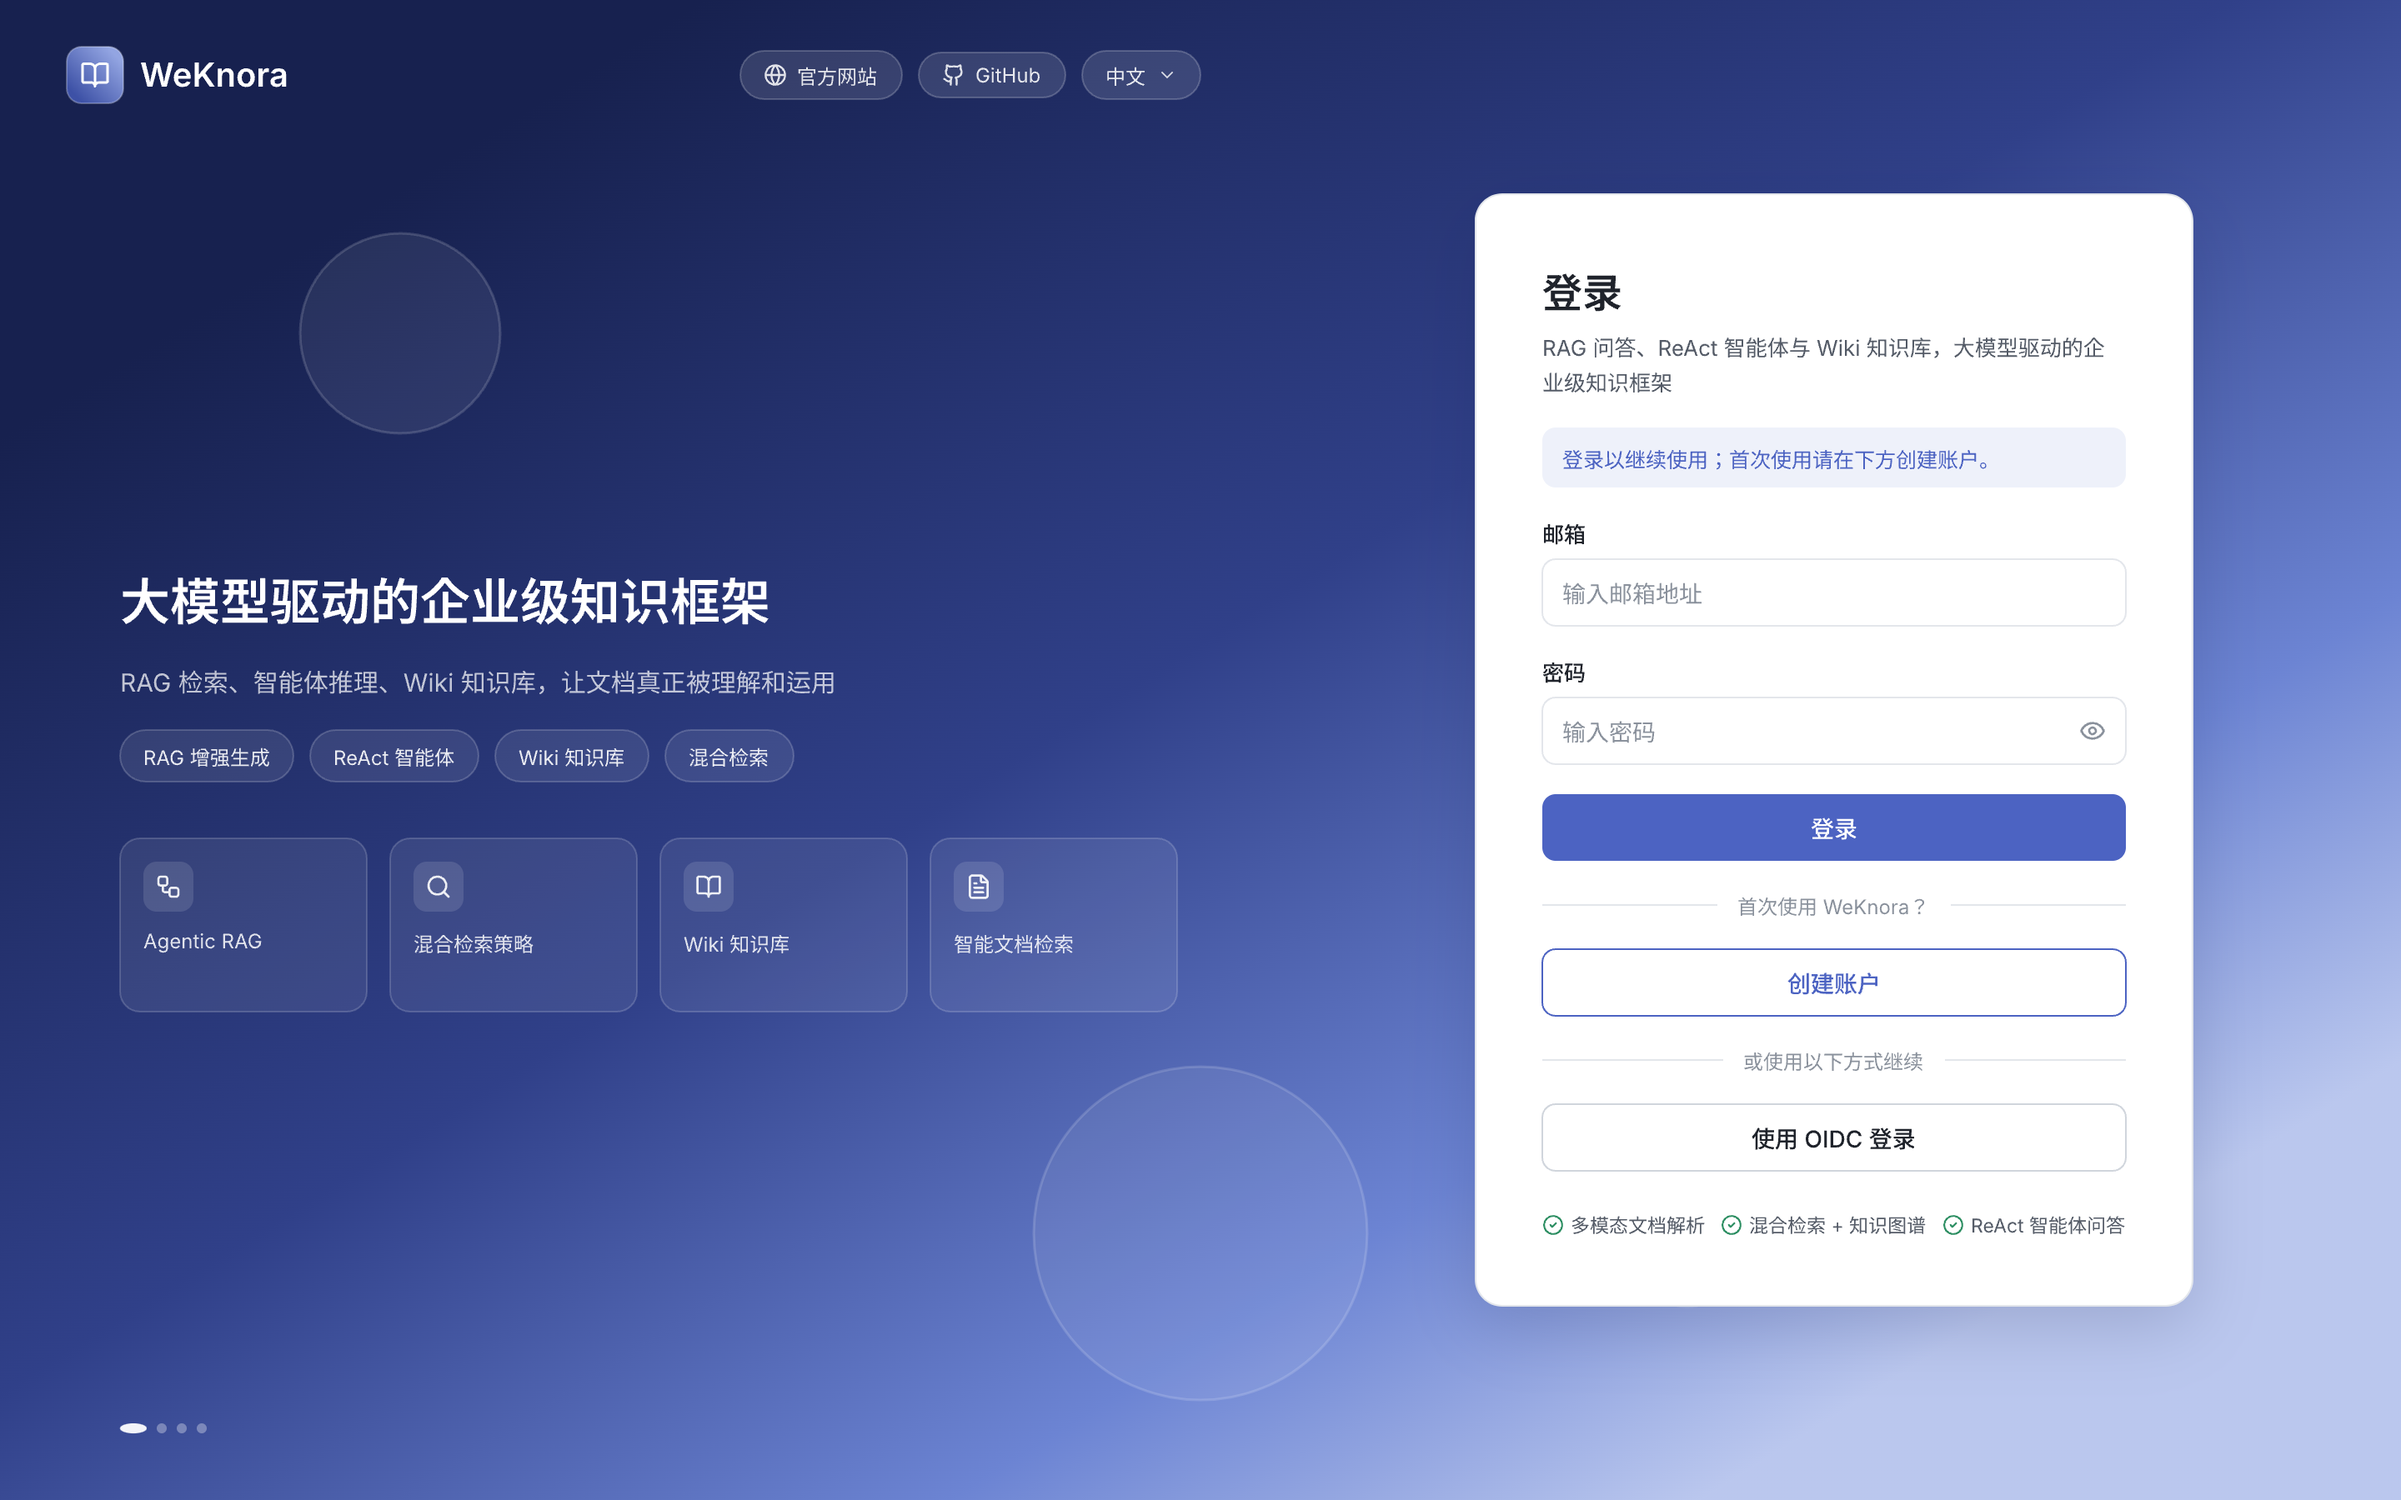
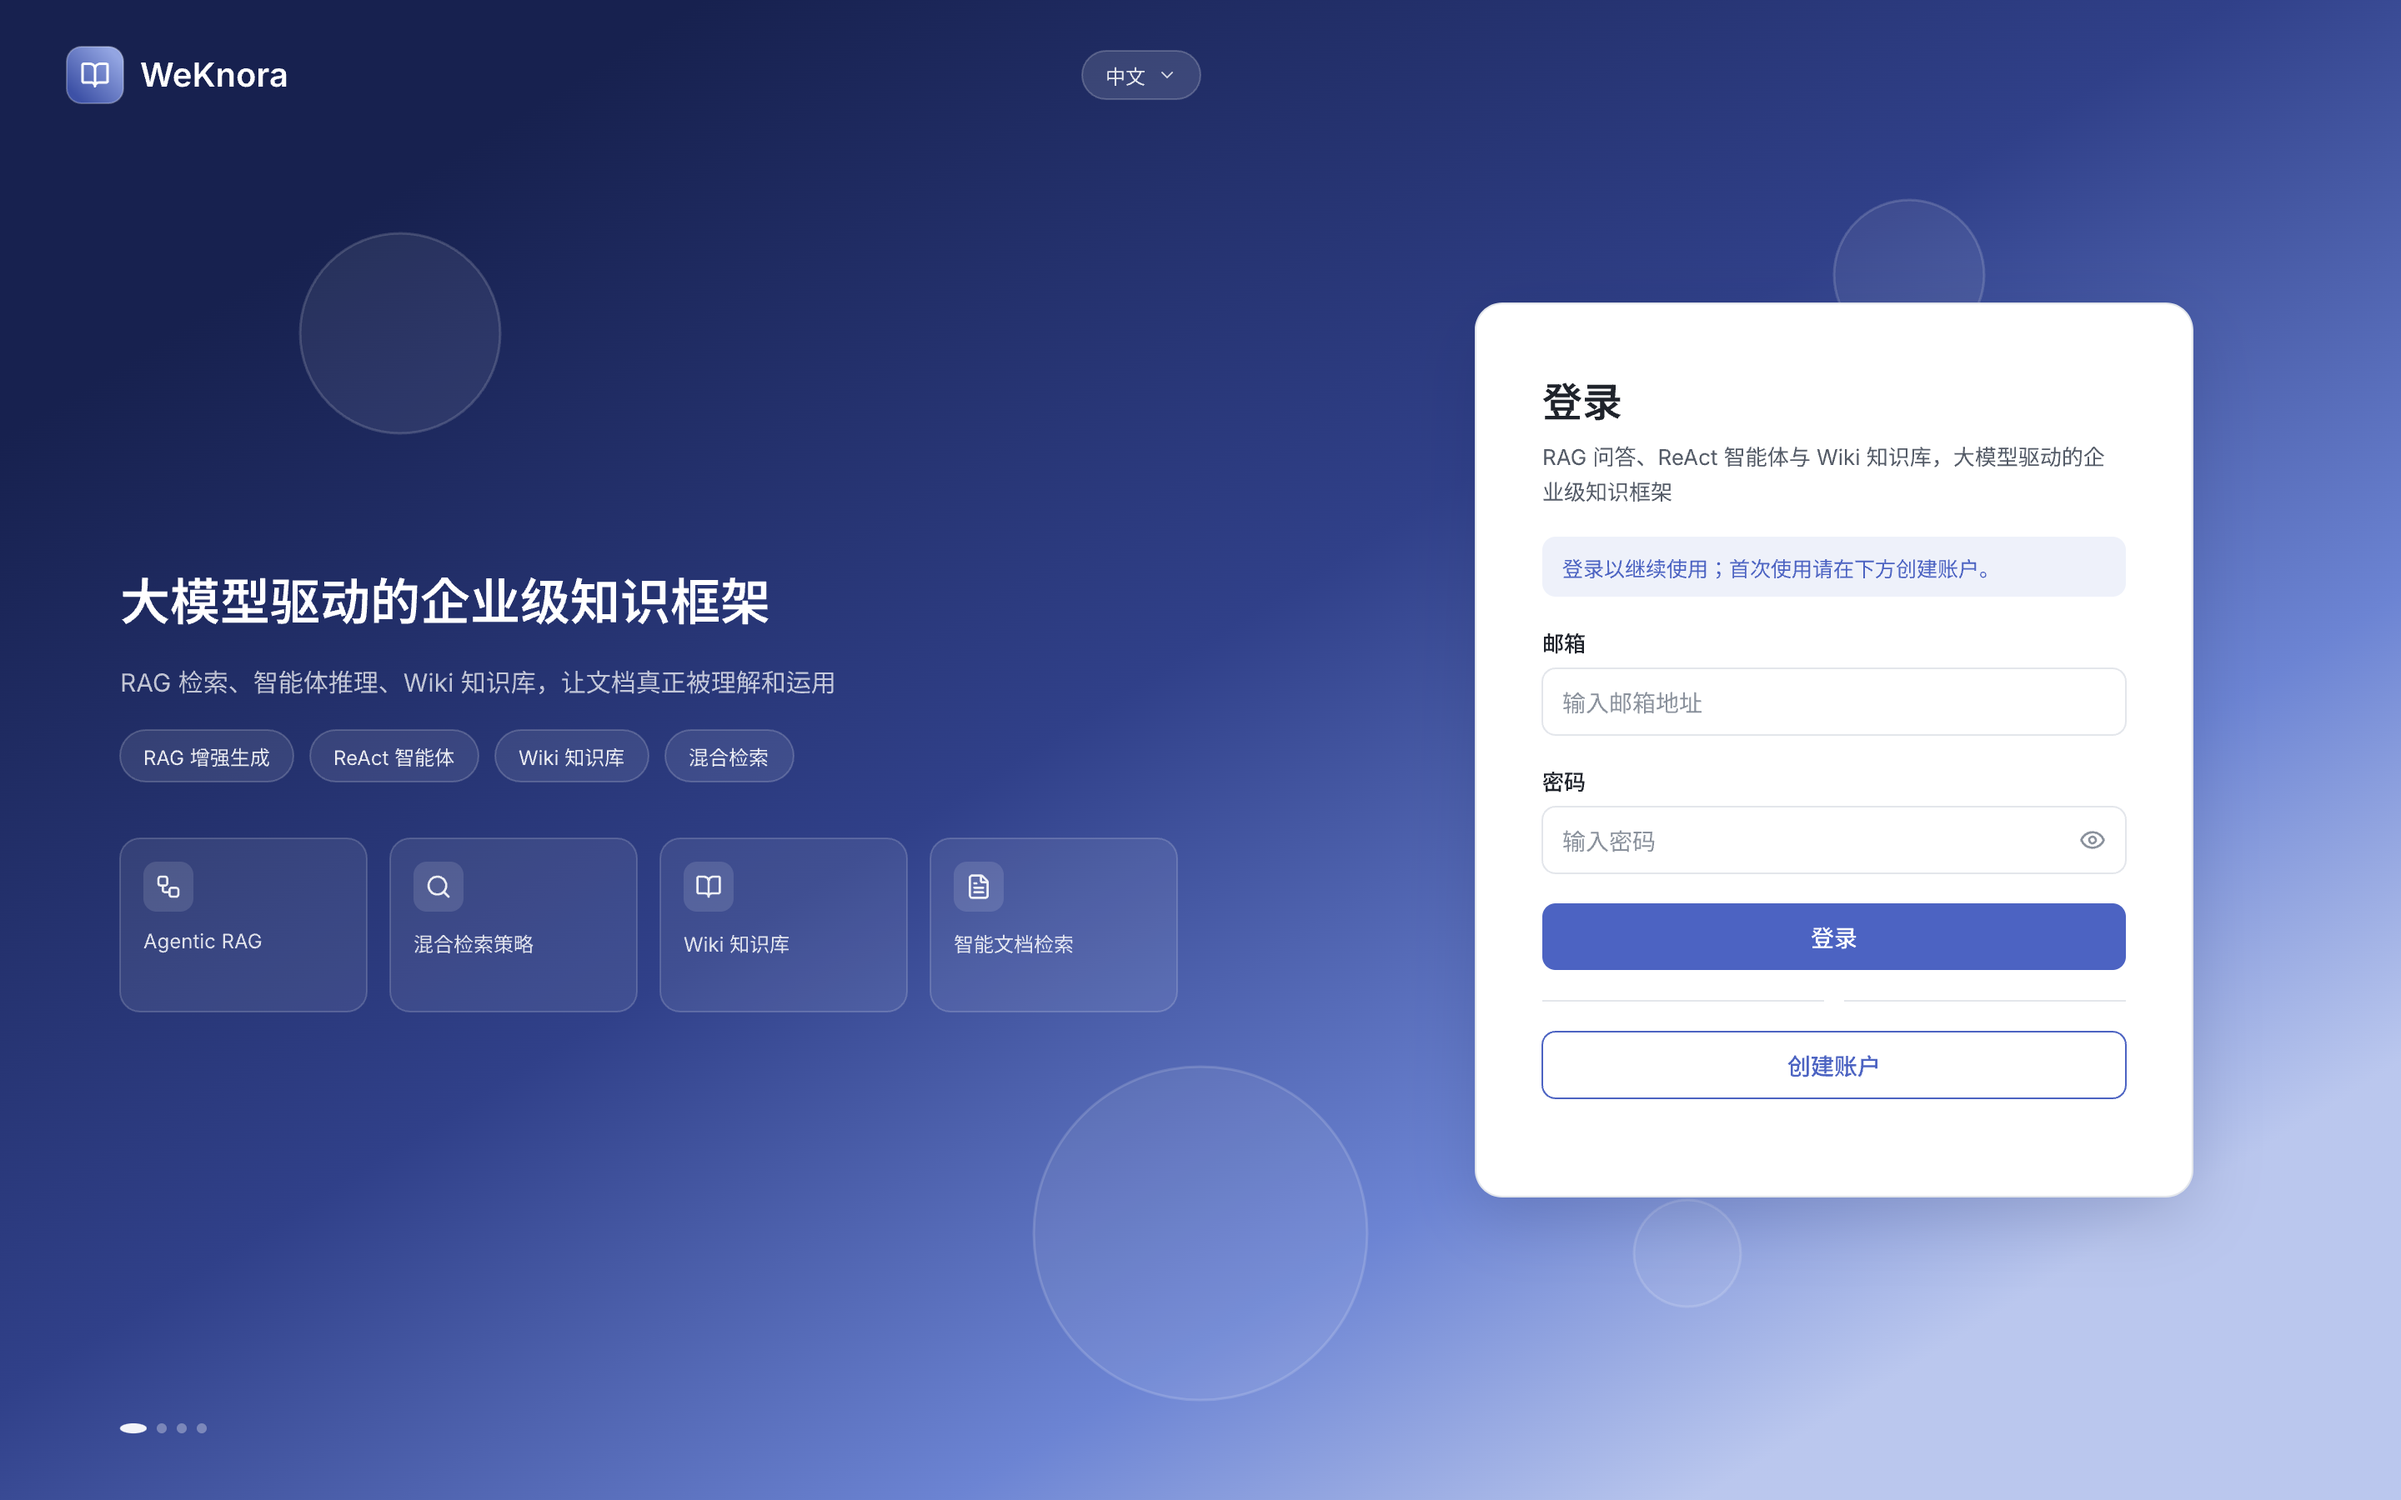
docs(design): refresh login screen export and coverage notes

diff --git a/design/README.md b/design/README.md
@@ -42,7 +42,7 @@
 
 | 导出图 | 对应路由/视图 | 覆盖的真实功能 |
 | --- | --- | --- |
-| `01-login-light.png` | `/login`（Login.vue） | 官网/GitHub/语言切换、产品特性轮播、邮箱+密码登录、创建账户、OIDC、特性清单 |
+| `01-login-light.png` | `/login`（Login.vue） | 语言切换、产品特性轮播、邮箱+密码登录、创建账户；OIDC 按钮保留为条件渲染（仅部署方配置 SSO 时出现） |
 | `02-kb-list-light.png` | `/platform/knowledge-bases`（KnowledgeBaseList.vue） | 空间切换、四项主导航、我的对话（今天/近 7 天分组）、置顶/我创建的分组、KB 卡片（Wiki 徽章/收藏/来源） |
 | `03-kb-documents-light.png` | `/platform/knowledge-bases/:kbId`（KnowledgeBase.vue + DocumentListView.vue） | 面包屑（文档/Wiki/图谱 tab）、六项筛选、视图切换、添加文档、8 列文档表、解析状态全枚举（解析中/已完成/生成摘要中/失败/已取消/草稿） |
 | `04-chat-light.png` | `/platform/chat/:id` | 资源 chips、@ 提及、RAG 检索时间线（问题理解→检索完成→生成中）、引用文档卡（N 个片段）、回答+操作工具条、追问 chips、输入坞（快速问答/联网/图片/附件/模型选择） |
